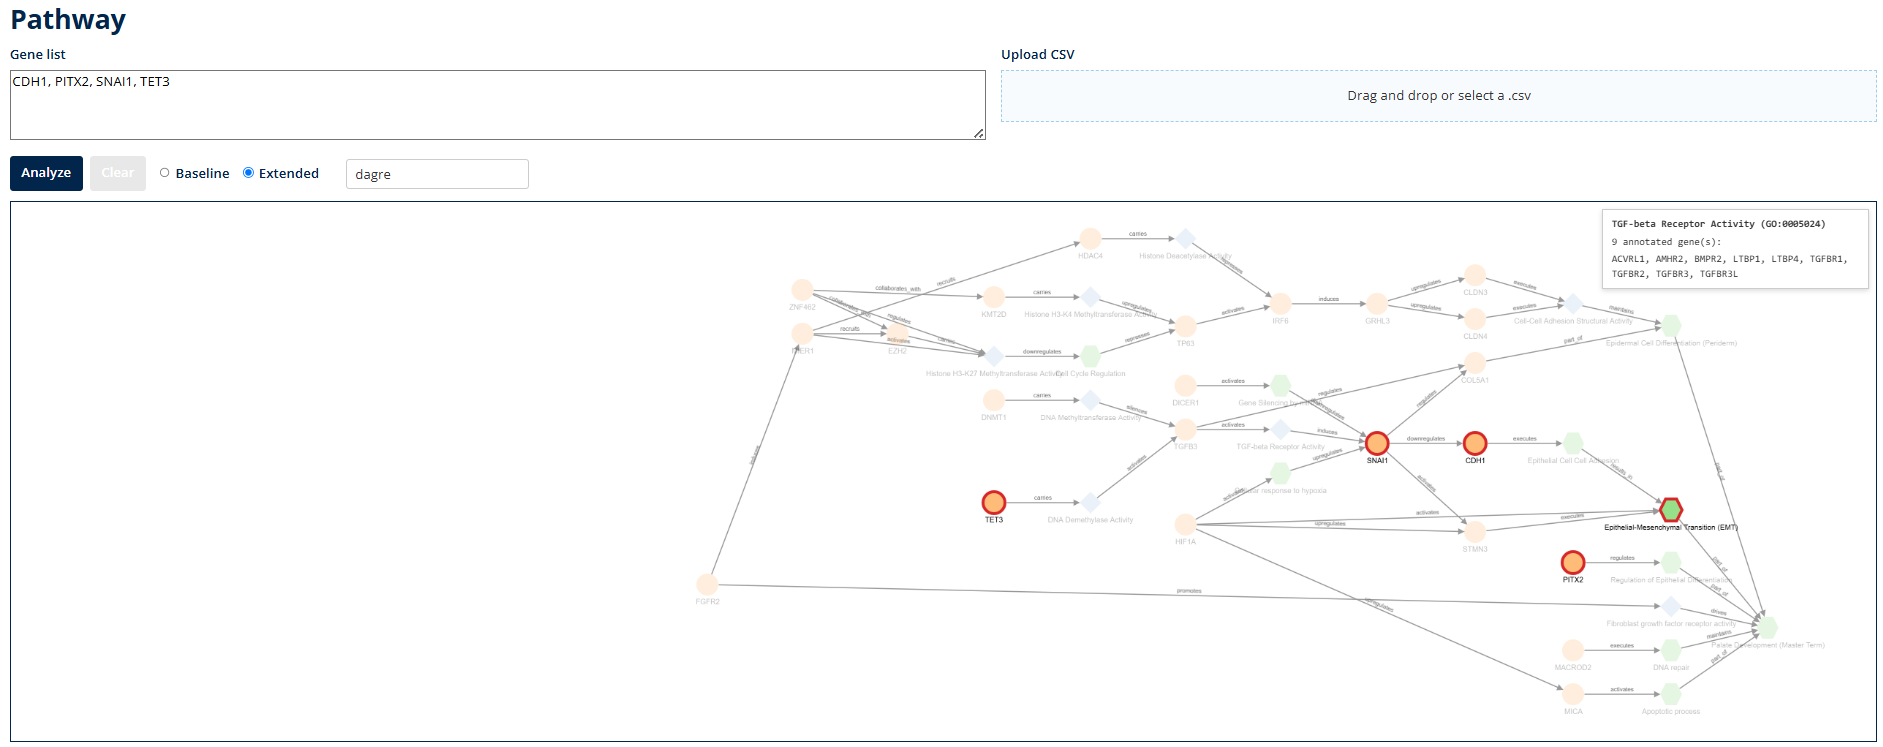
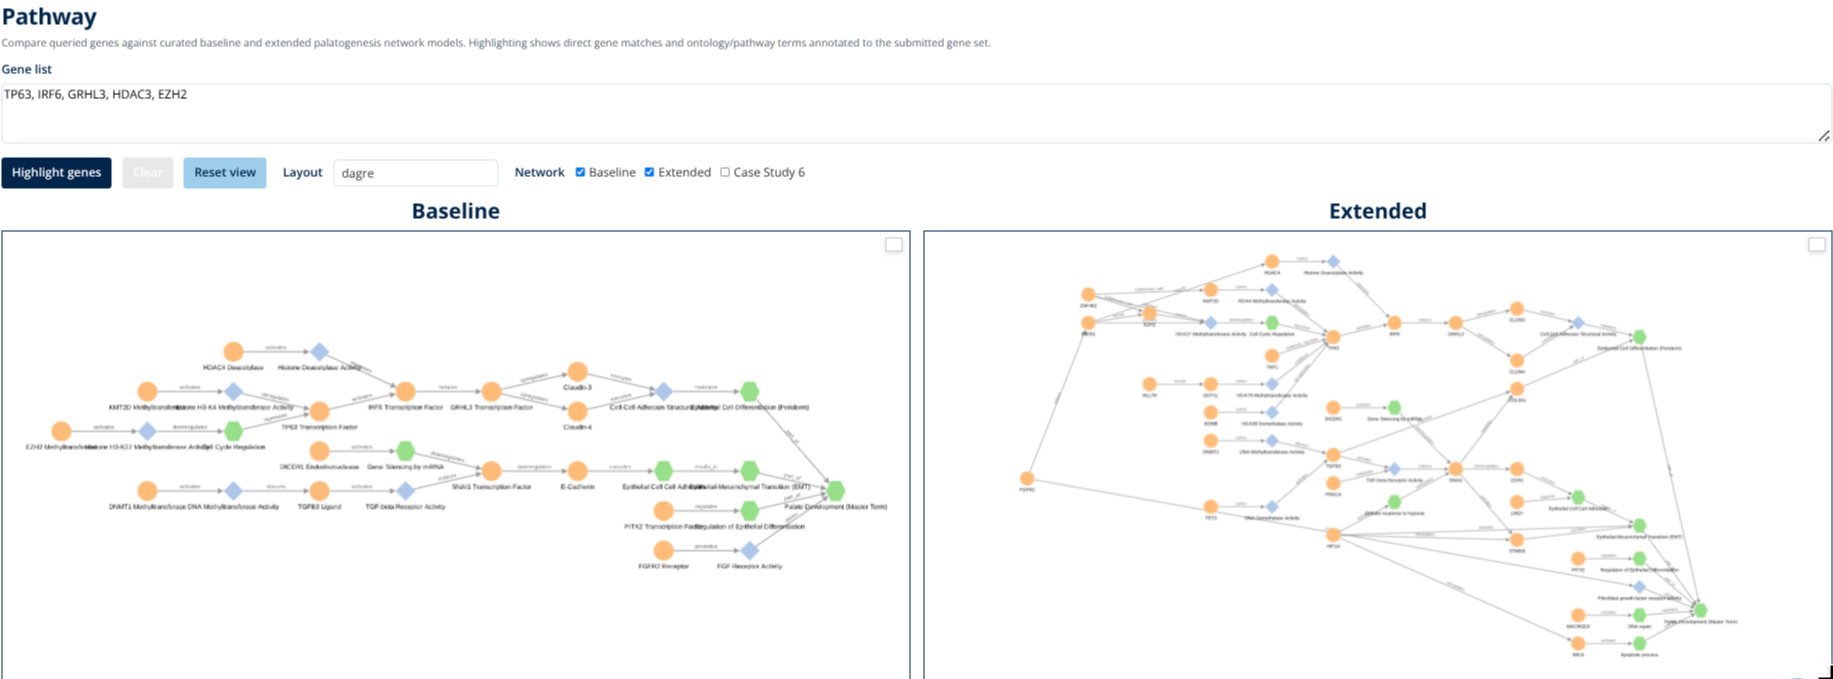
updated readme

diff --git a/components/header.py b/components/header.py
@@ -75,10 +75,6 @@ def create_uconn_header():
                         style={'color': '#FFFFFF', 'backgroundColor': UCONN_NAVY, 'fontWeight': 'bold', 'fontSize': '14px', 'padding': '7px 18px', 'marginRight': '2px', 'border': f'1px solid {UCONN_NAVY}', 'borderRadius': '0'},
                         selected_style={'color': UCONN_NAVY, 'backgroundColor': '#FFFFFF', 'fontWeight': 'bold', 'fontSize': '14px', 'padding': '7px 18px', 'marginRight': '2px', 'border': f'1px solid {UCONN_NAVY}', 'borderRadius': '0', 'boxShadow': '0 2px 8px rgba(0,0,0,0.08)'}
                 ),
-                dcc.Tab(label='Family SV', value='/family',
-                        style={'color': '#FFFFFF', 'backgroundColor': UCONN_NAVY, 'fontWeight': 'bold', 'fontSize': '14px', 'padding': '7px 18px', 'marginRight': '2px', 'border': f'1px solid {UCONN_NAVY}', 'borderRadius': '0'},
-                        selected_style={'color': UCONN_NAVY, 'backgroundColor': '#FFFFFF', 'fontWeight': 'bold', 'fontSize': '14px', 'padding': '7px 18px', 'marginRight': '2px', 'border': f'1px solid {UCONN_NAVY}', 'borderRadius': '0', 'boxShadow': '0 2px 8px rgba(0,0,0,0.08)'}
-                ),
                 dcc.Tab(label='Pathway', value='/pathway',
                         style={'color': '#FFFFFF', 'backgroundColor': UCONN_NAVY, 'fontWeight': 'bold', 'fontSize': '14px', 'padding': '7px 18px', 'marginRight': '2px', 'border': f'1px solid {UCONN_NAVY}', 'borderRadius': '0'},
                         selected_style={'color': UCONN_NAVY, 'backgroundColor': '#FFFFFF', 'fontWeight': 'bold', 'fontSize': '14px', 'padding': '7px 18px', 'marginRight': '2px', 'border': f'1px solid {UCONN_NAVY}', 'borderRadius': '0', 'boxShadow': '0 2px 8px rgba(0,0,0,0.08)'}

diff --git a/README.md b/README.md
@@ -18,15 +18,13 @@ Production views are designed to avoid exposing individual sample identifiers. T
 
 The Summary page is the entry point for the site. It introduces the cohort analysis and highlights overlap between known OFC genes and genes with recurrent SV signal in the cohort.
 
-![Summary page](images/summary.png)
+![Summary page](images/41genes.png)
 
 Use this page to:
 
 - Review the high-level purpose of the portal.
 - Identify the overlap between literature-supported OFC genes and cohort SV findings.
 - Open the curated 41-gene table by selecting the overlap region.
-
-Screenshot note: this image should show the landing page and the gene-overlap visualization.
 
 ## Database Overview
 
@@ -47,8 +45,6 @@ Use the Interactive tab to build custom aggregate bar graphs:
 - Choose a value to summarize, such as Unique SVs or Samples.
 - Use the generated chart to compare distributions across selected categories.
 
-Screenshot note: this image should show the Database Overview page with the Static tab visible. A separate image can be added later if an Interactive tab example is preferred.
-
 ## Table Inspection
 
 The Table Inspection page presents the curated 41-gene overlap table. It is intended for moving from a summary gene list into locus- and pathway-level review.
@@ -62,24 +58,18 @@ Use this page to:
 - Select clickable Gene or FusorSV ID fields to open navigation options.
 - Open supported entries in IGV/Population, Pathway, or Case Study views.
 
-Screenshot note: this image should show the curated table and, if possible, the navigation action menu after selecting a gene or SV value.
-
 ## IGV/Population
 
 The IGV/Population page supports locus-level review of aggregate structural variant tracks. It is the main genome-browser view in the production site.
 
 ![IGV/Population](images/population.png)
 
-Use this page to:
-
 - Search for a gene and jump directly to its genomic locus.
 - Browse by chromosome when reviewing broader regions.
 - View aggregate SV tracks across the cohort.
 - Add optional annotation tracks, including exons, active enhancer candidates, promoter candidates, insulator candidates, and no-cleft embryo cCREs.
 
-When opened from Table Inspection or Case Study links, the page can load the relevant gene or locus directly.
-
-Screenshot note: this image should show an IGV/Population locus with SV tracks and selected annotation tracks visible.
+Note: When opening a gene or SV from search or a link, the viewer focuses on that region and nearby context for optimization. Use the flanking-window control if you want to see a wider area around a selected SV.
 
 ## Pathway
 
@@ -87,22 +77,15 @@ The Pathway page compares a user-entered gene list against curated palatogenesis
 
 ![Pathway](images/pathway.png)
 
-Use this page to:
-
-- Enter genes as a comma-separated list, for example `TP63, IRF6, GRHL3`.
 - Select `Highlight genes` to mark matching genes and annotated pathway terms.
-- Use `Clear` to remove highlights from the pathway diagrams.
-- Use `Reset view` to reload the diagrams and return to a clean layout.
 - Show or hide the Baseline, Extended, and Case Study 6 network views.
 - Click nodes to inspect labels, identifiers, and annotations.
-
-Screenshot note: this image should show the pathway controls and one or more network diagrams with highlighted query genes.
 
 ## Case Study
 
 The Case Study page contains curated gene-level examples. Each case connects a selected gene to cohort findings, genomic context, pathway interpretation, and supporting literature.
 
-![Case Study](images/igv.png)
+![Case Study](images/case_study.png)
 
 Use this page to:
 
@@ -111,15 +94,8 @@ Use this page to:
 - Read the gene function, IGV, literature, pathway, and supporting-data sections.
 - Follow embedded links to the IGV/Population and Pathway pages.
 
-Screenshot note: replace this placeholder with a dedicated Case Study page screenshot when available.
-
-## Privacy
-
-This is an internal UConn research dashboard prepared for publication-facing review. Production-facing views should avoid exposing individual sample identifiers in the interface, logs, screenshots, or downloads unless a separate internal-only exception is made.
-
 ## Citation
 
-Citation details will be added when the companion publication is available.
 
 ```bibtex
 @article{ofc_sv_explorer,
